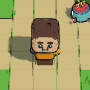
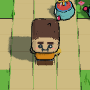
WIP ?: S83: face readability (thicker brows+mouth, stronger focus, bigger sweat drop/tongue)

diff --git a/LUMEN/game/src/assets/heroFace.js b/LUMEN/game/src/assets/heroFace.js
@@ -8,7 +8,7 @@ import * as THREE from '../../vendor/three.module.js';
 import { G } from './geo.js';
 import { PALETTE as P, flatMat } from '../core/Toon.js';
 
-const INK = 0x263238, BROW = 0x3e2723, TONGUE = 0xf06292, BLUSH = 0xff8a80, SWEAT = 0x81d4fa;
+const INK = 0x263238, BROW = 0x3e2723, TONGUE = 0xf06292, BLUSH = 0xff8a80, SWEAT = 0x29b6f6;
 const fm = (c, o) => { const m = flatMat(c, o); m.polygonOffset = true; m.polygonOffsetFactor = -2; m.polygonOffsetUnits = -2; return m; };
 const flat = (geo, mat, x = 0, y = 0, z = 0) => { const m = new THREE.Mesh(geo, mat); m.position.set(x, y, z); m.userData.noOutline = true; m.castShadow = m.receiveShadow = false; return m; };
 
@@ -47,7 +47,7 @@ export function buildHeroFace(head, C = {}) {
     const arc = new Ribbon(inkM, 8, false); arc.set(0.085, -0.9, 0.034); arc.group.position.set(0, -0.01, 0.01); arc.group.visible = false; eye.add(arc.group);
     eyes.push({ g: eye, oval, glint, arc, sx });
     const brow = new THREE.Group(); brow.position.set(sx * 0.2, 0.21, 0.004); face.add(brow);
-    const bm = flat(G.box(0.23, 0.08, 0.03), browM); brow.add(bm);
+    const bm = flat(G.box(0.25, 0.108, 0.03), browM); brow.add(bm);
     brows.push({ g: brow, sx });
     const b = flat(G.sphere(0.5, 6, 4), blushM, sx * 0.335, -0.13, -0.005); b.scale.set(0.14, 0.08, 0.03); face.add(b); blush.push(b);
   }
@@ -58,10 +58,10 @@ export function buildHeroFace(head, C = {}) {
   const hole = flat(G.sphere(0.5, 10, 8), inkM); open.add(hole);
   const tongue = flat(G.sphere(0.5, 8, 6), tongueM, 0, -0.28, 0.012); open.add(tongue);
   const teeth = flat(G.box(1, 0.3, 0.2), whiteM, 0, 0.26, 0.014); open.add(teeth);
-  const tongueOut = flat(G.sphere(0.5, 8, 6), tongueM, 0.08, -0.045, 0.006); tongueOut.scale.set(0.06, 0.07, 0.03); tongueOut.visible = false; mouth.add(tongueOut);
+  const tongueOut = flat(G.sphere(0.5, 8, 6), tongueM, 0.08, -0.045, 0.006); tongueOut.scale.set(0.095, 0.11, 0.03); tongueOut.visible = false; mouth.add(tongueOut);
   const sweat = new THREE.Group(); sweat.position.set(0.43, 0.16, 0.002); sweat.visible = false; face.add(sweat);
-  const dropB = flat(G.sphere(0.5, 7, 5), sweatM); dropB.scale.set(0.07, 0.085, 0.03); sweat.add(dropB);
-  const dropT = flat(G.cone(0.5, 1, 6), sweatM, 0, 0.07, 0); dropT.scale.set(0.06, 0.08, 0.03); sweat.add(dropT);
+  const dropB = flat(G.sphere(0.5, 7, 5), sweatM); dropB.scale.set(0.105, 0.125, 0.03); sweat.add(dropB);
+  const dropT = flat(G.cone(0.5, 1, 6), sweatM, 0, 0.1, 0); dropT.scale.set(0.09, 0.12, 0.03); sweat.add(dropT);
 
   const rig = {
     group: face, mouth, eyes, brows, blush, sweat, open,
@@ -80,7 +80,7 @@ export function buildHeroFace(head, C = {}) {
       for (const b of brows) { b.g.position.set(b.sx * 0.2 * Q.espread + Q.lx * 0.4, 0.21 + Q.bl, 0.004); b.g.rotation.z = b.sx * Q.ba; b.g.scale.x = Q.bsx; }
       const useOpen = Q.op > 0.3, o = Math.min(1, Q.op);
       rib.group.visible = !useOpen; open.visible = useOpen;
-      if (!useOpen) rib.set(Q.mw, Q.mc, 0.062);
+      if (!useOpen) rib.set(Q.mw, Q.mc, 0.074);
       else {
         const w = Q.ow, h = Math.max(0.02, Q.oh * o);
         hole.scale.set(w, h, 0.05);

diff --git a/LUMEN/game/src/anim/heroFace.js b/LUMEN/game/src/anim/heroFace.js
@@ -8,7 +8,7 @@ import { damp } from './Easing.js';
 import { buildHeroFace } from '../assets/heroFace.js';
 
 export const BASE = Object.freeze({ espread: 1, ey: 0, lx: 0, ly: 0, esx: 1, esy: 1, asy: 0, happy: 0, ac: -1.2, bl: 0, ba: 0, bsx: 1,
-  mw: 0.11, mc: 0.9, op: 0, ow: 0.2, oh: 0.14, teeth: 0, tg: 0, blush: 0.55, sweat: 0 });
+  mw: 0.11, mc: 0.55, op: 0, ow: 0.2, oh: 0.14, teeth: 0, tg: 0, blush: 0.55, sweat: 0 });
 const E = (o) => Object.freeze({ ...BASE, ...o });
 export const EXPRESSIONS = Object.freeze({
   neutral: BASE,
@@ -16,7 +16,7 @@ export const EXPRESSIONS = Object.freeze({
   cheer: E({ happy: 1, ac: -0.95, bl: 0.05, op: 1, ow: 0.3, oh: 0.14, blush: 0.95 }),
   angry: E({ esy: 0.6, esx: 1.05, ey: -0.02, ba: 0.62, bl: -0.05, bsx: 1.1, op: 1, ow: 0.3, oh: 0.085, teeth: 1, blush: 0 }),
   dash: E({ esy: 0.72, ba: 0.32, bl: -0.025, mw: 0.12, mc: -0.45, blush: 0.25 }),
-  focus: E({ esy: 0.52, ly: -0.035, ba: 0.22, bl: -0.02, mw: 0.075, mc: 0.05, tg: 1, blush: 0.4 }),
+  focus: E({ esy: 0.42, esx: 0.9, ly: -0.04, ba: 0.34, bl: -0.04, bsx: 1.05, mw: 0.07, mc: -0.1, tg: 1, blush: 0.5, espread: 0.94 }),
   strain: E({ esy: 0.5, ba: 0.4, bl: -0.03, op: 1, ow: 0.26, oh: 0.07, teeth: 1, blush: 0.2 }),
   ouch: E({ esy: 0.12, esx: 1.25, ba: -0.55, bl: 0.07, op: 1, ow: 0.27, oh: 0.15, sweat: 1, blush: 0 }),
   sad: E({ esy: 0.88, ly: -0.03, ey: -0.01, ba: -0.42, bl: 0.03, mw: 0.12, mc: -1.1, blush: 0.2 }),
